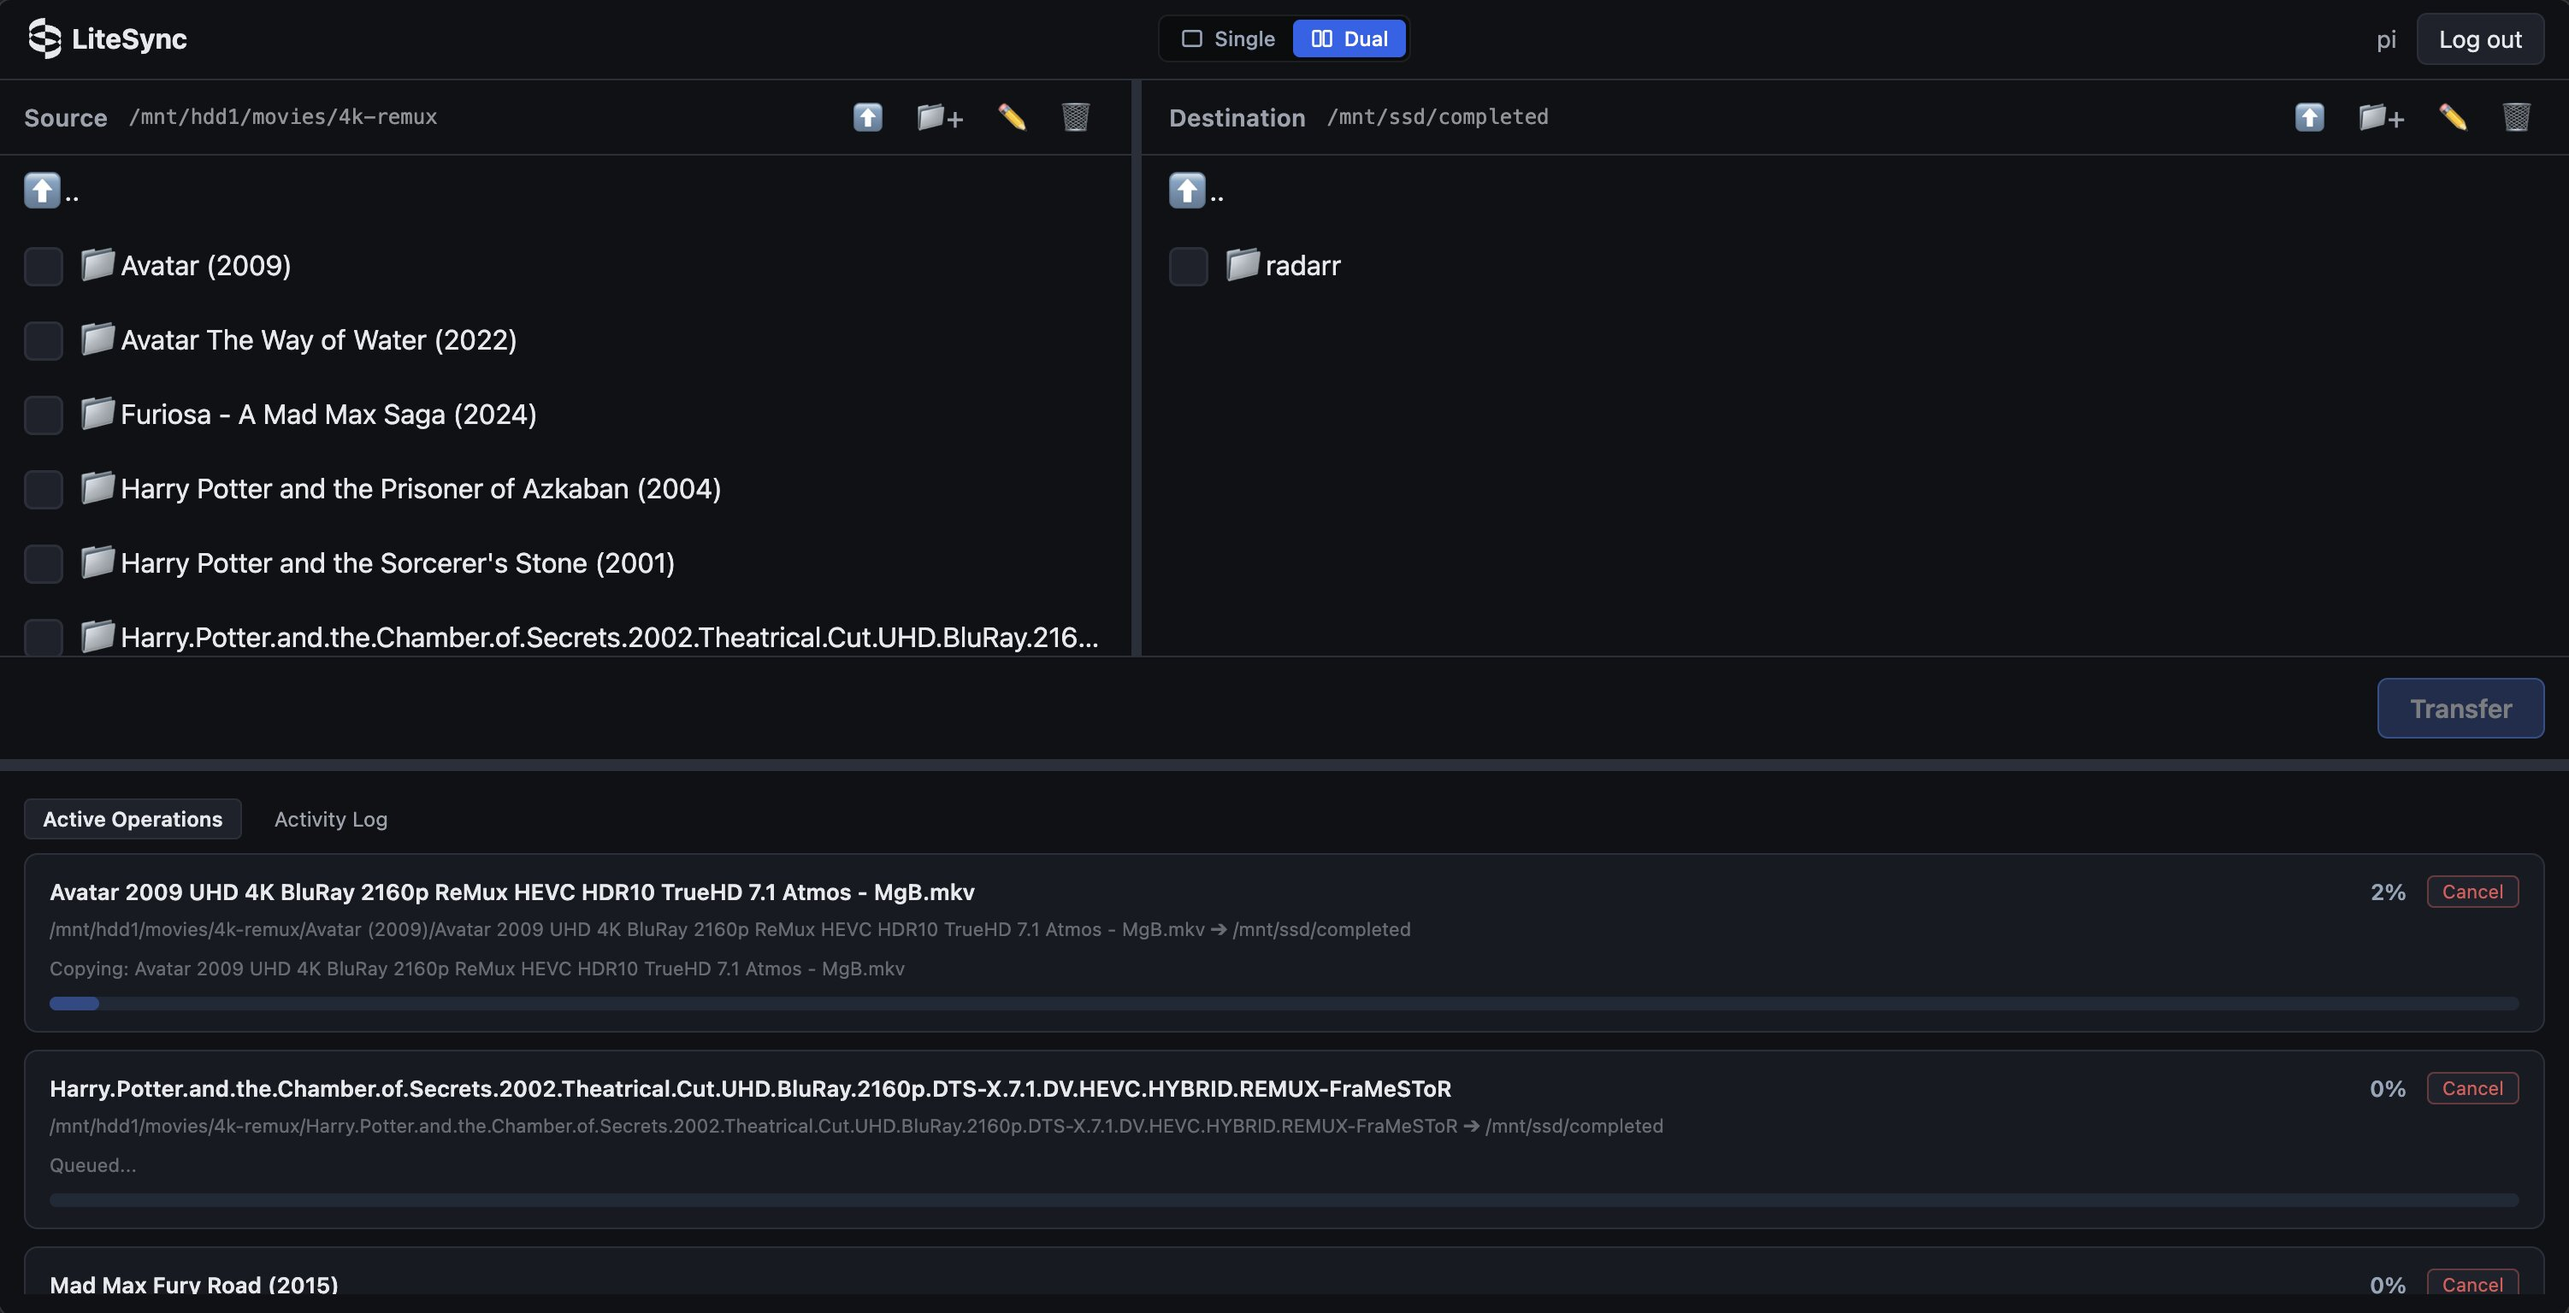
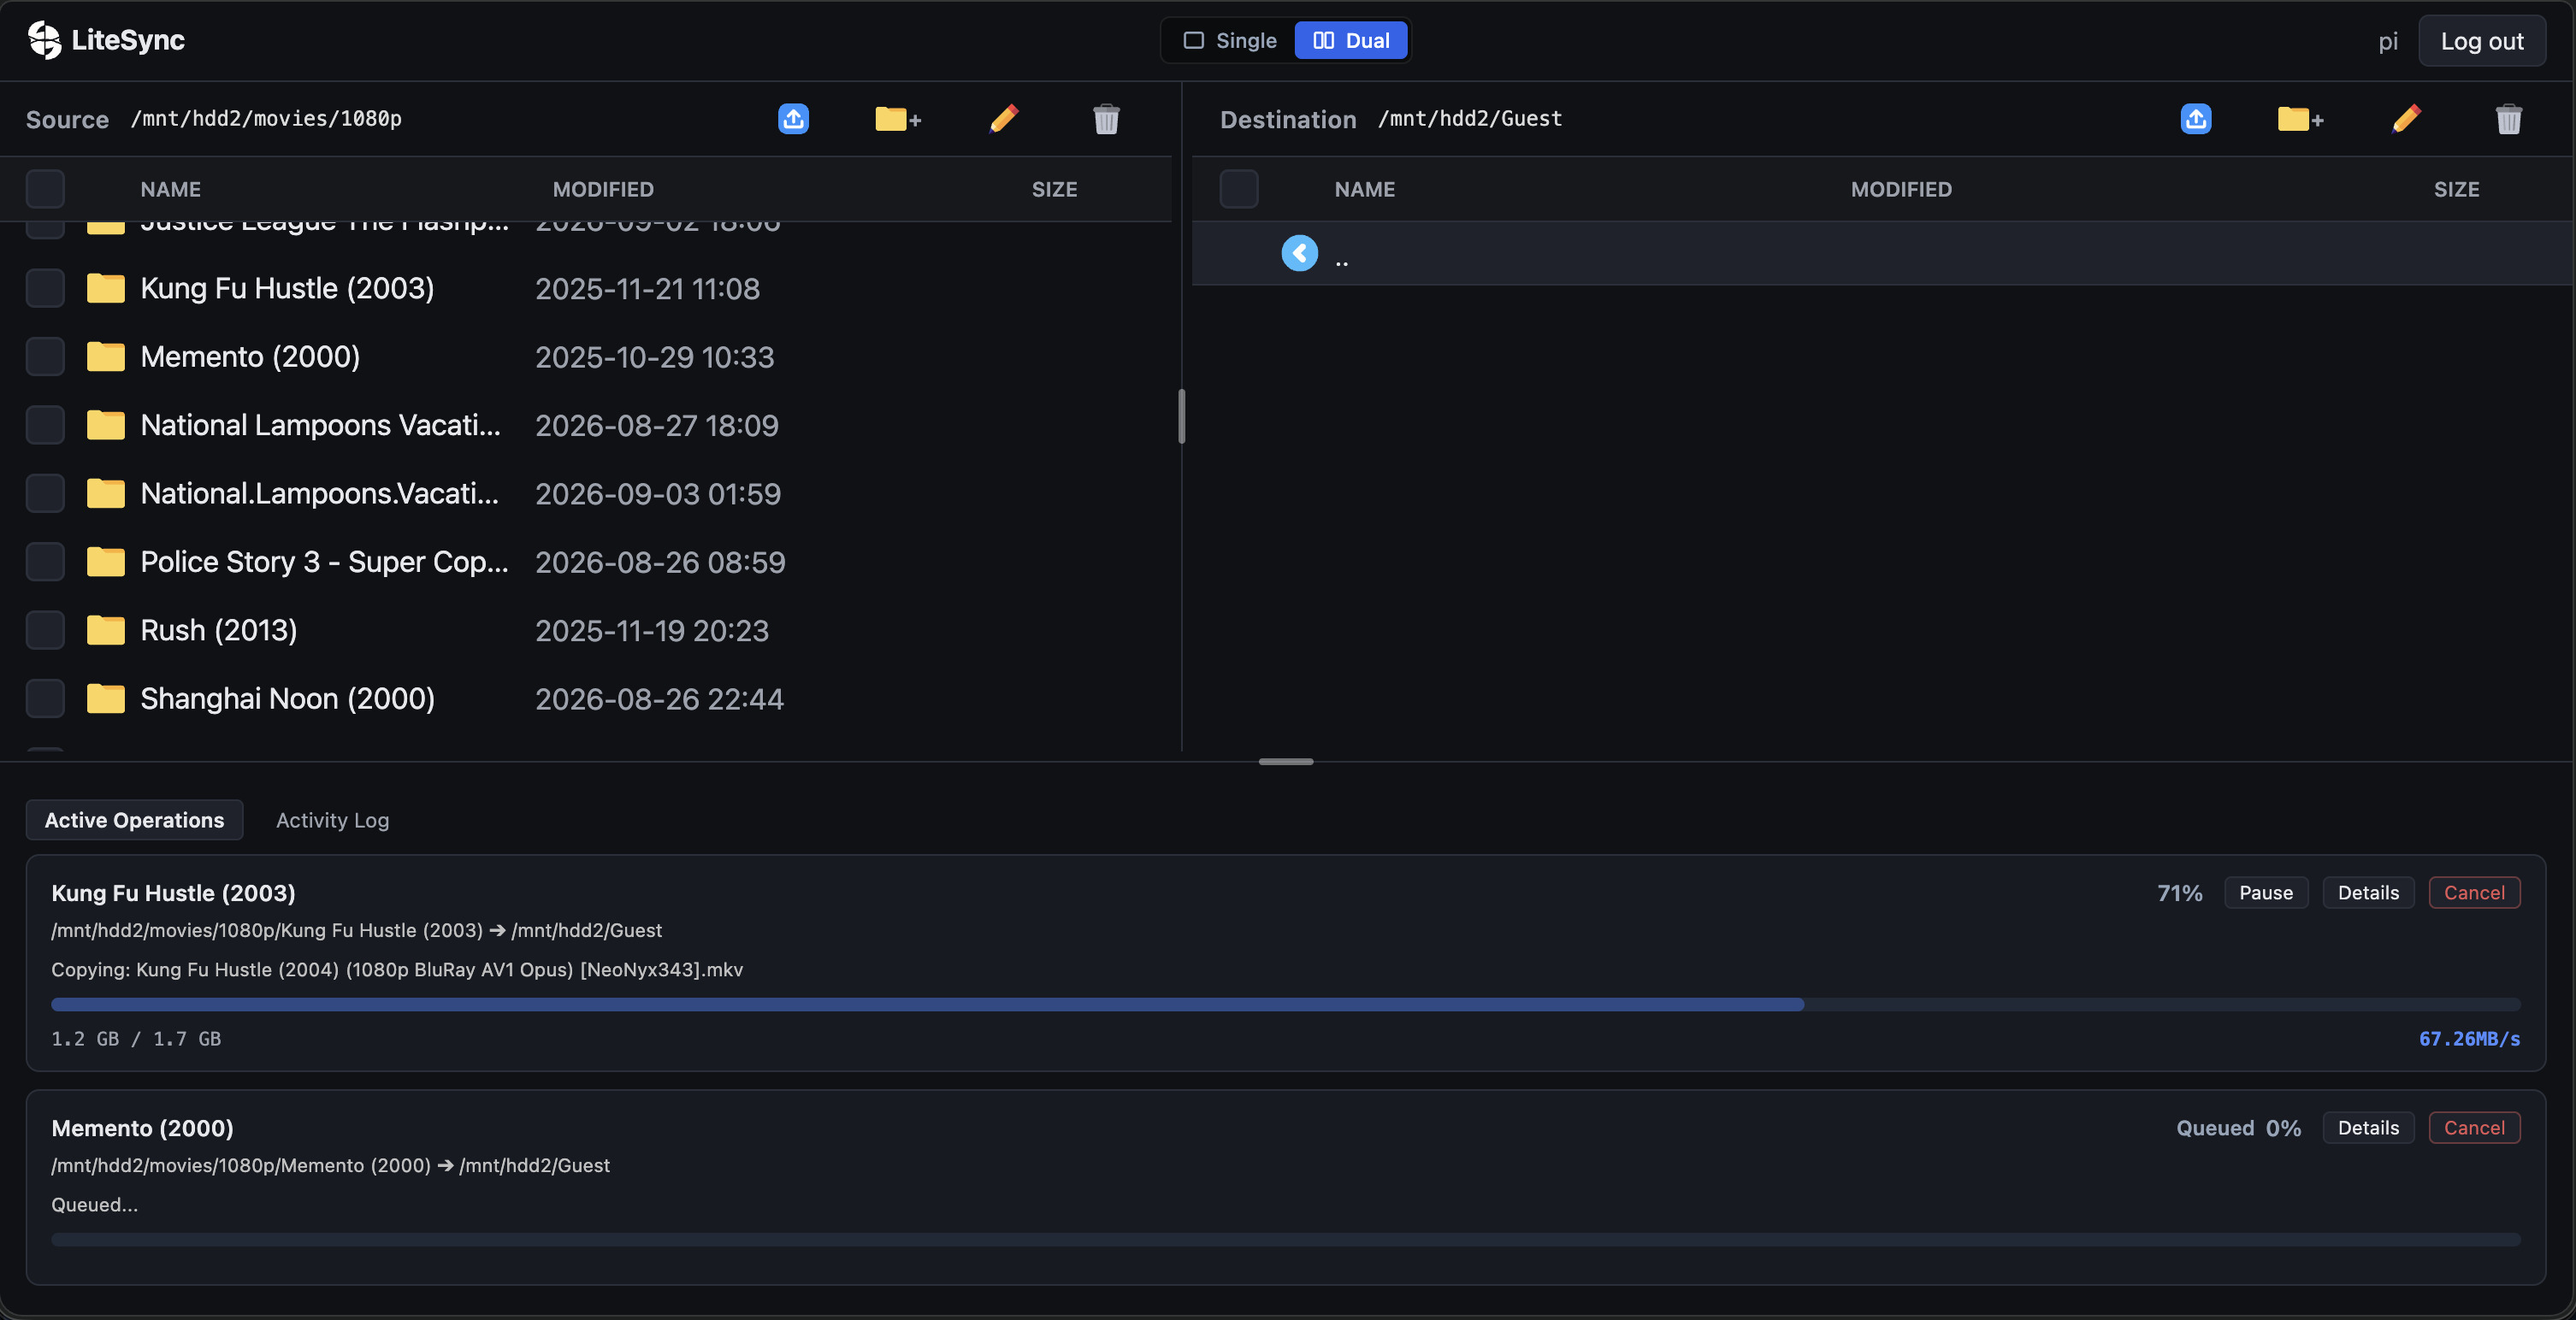
update project docs and screenshots

diff --git a/docs/architecture.md b/docs/architecture.md
@@ -52,6 +52,7 @@ Minimal-overhead Linux web app for dual-pane local directory browsing and backgr
 │           ├── editor.js
 │           ├── item-details.js
 │           ├── mkdir-rename-delete.js
+│           ├── task-details.js
 │           └── transfer.js
 ├── data/                     # Gitignored runtime data
 │   ├── litesync.db           # SQLite database (tasks + activity tables)
@@ -194,6 +195,7 @@ CREATE INDEX idx_activity_created ON activity(created_at DESC);
   * **From URL**: URL input, optional filename override, and conflict selection submitted to `/api/transfer/url` as a persistent background task.
 * **Floating Upload Progress Card (`.upload-card`):** Self-contained multi-file progress card in bottom-right corner with stacked progress rows and independent `[✕]` cancel buttons (`xhr.abort()`) for device uploads.
 * **Unbatched Transfer Cards:** Multi-item transfers spawn individual `.transfer-card` elements (one per item). Queued items show `Queued...` and can be canceled before execution.
+* **Task Details Modal:** Dedicated `modal-extra-wide` view launched from transfer cards displaying a scrollable list of completed files and the currently active processing file with live progress stats.
 * **Selection Action Bar:** Hidden when count is 0; contains Summary, View, Clear, and Transfer controls.
 * **Transfer Confirmation Modal:** Contains operation options (`copy` vs `move`) directly under destination path.
 * **Contextual View Popover:** Displays full paths of selected items and exclusions with overflow scrolling.

diff --git a/README.md b/README.md
@@ -11,7 +11,7 @@
   <picture>
     <source media="(prefers-color-scheme: dark)" srcset="docs/logo_dark.svg">
     <source media="(prefers-color-scheme: light)" srcset="docs/logo_light.svg">
-    <img alt="LiteSync Logo" src="docs/logo_light.svg" width="96" height="96">
+    <img alt="LiteSync Logo" src="docs/logo_light.svg" width="128" height="128">
   </picture>
 
   <h1>LiteSync</h1>
